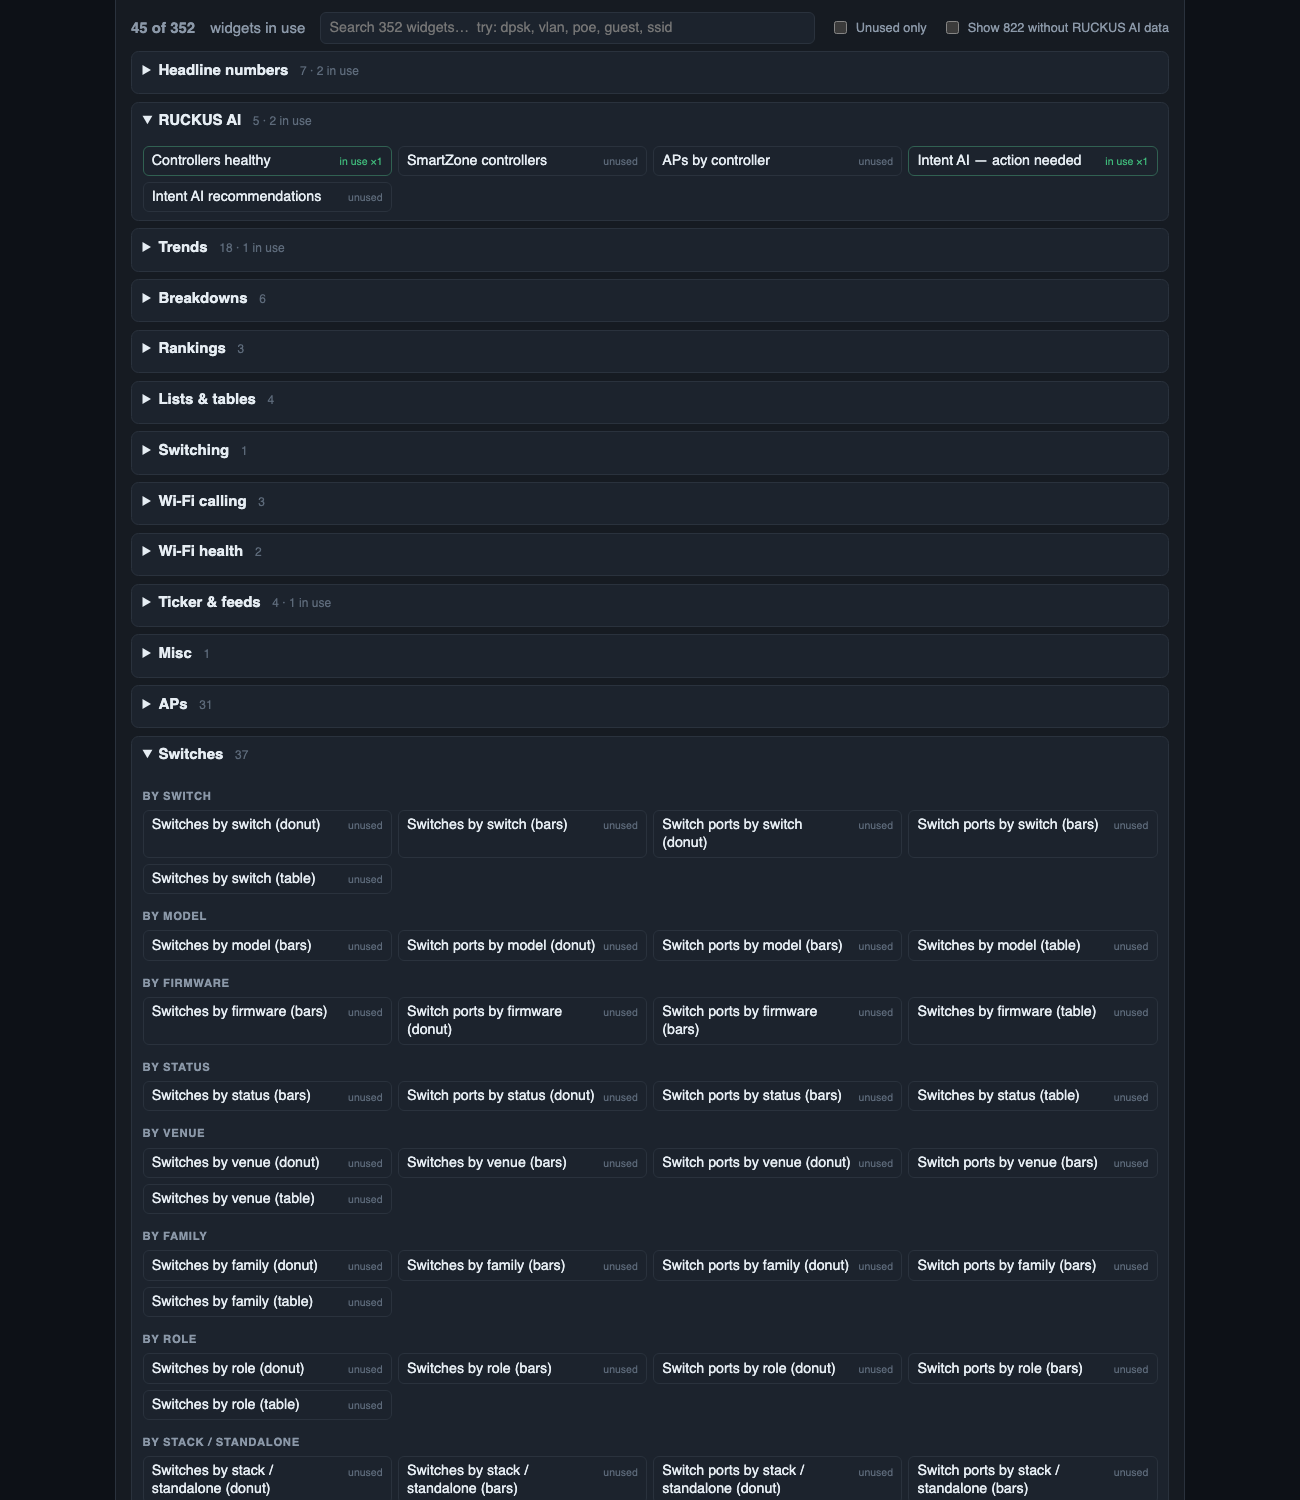
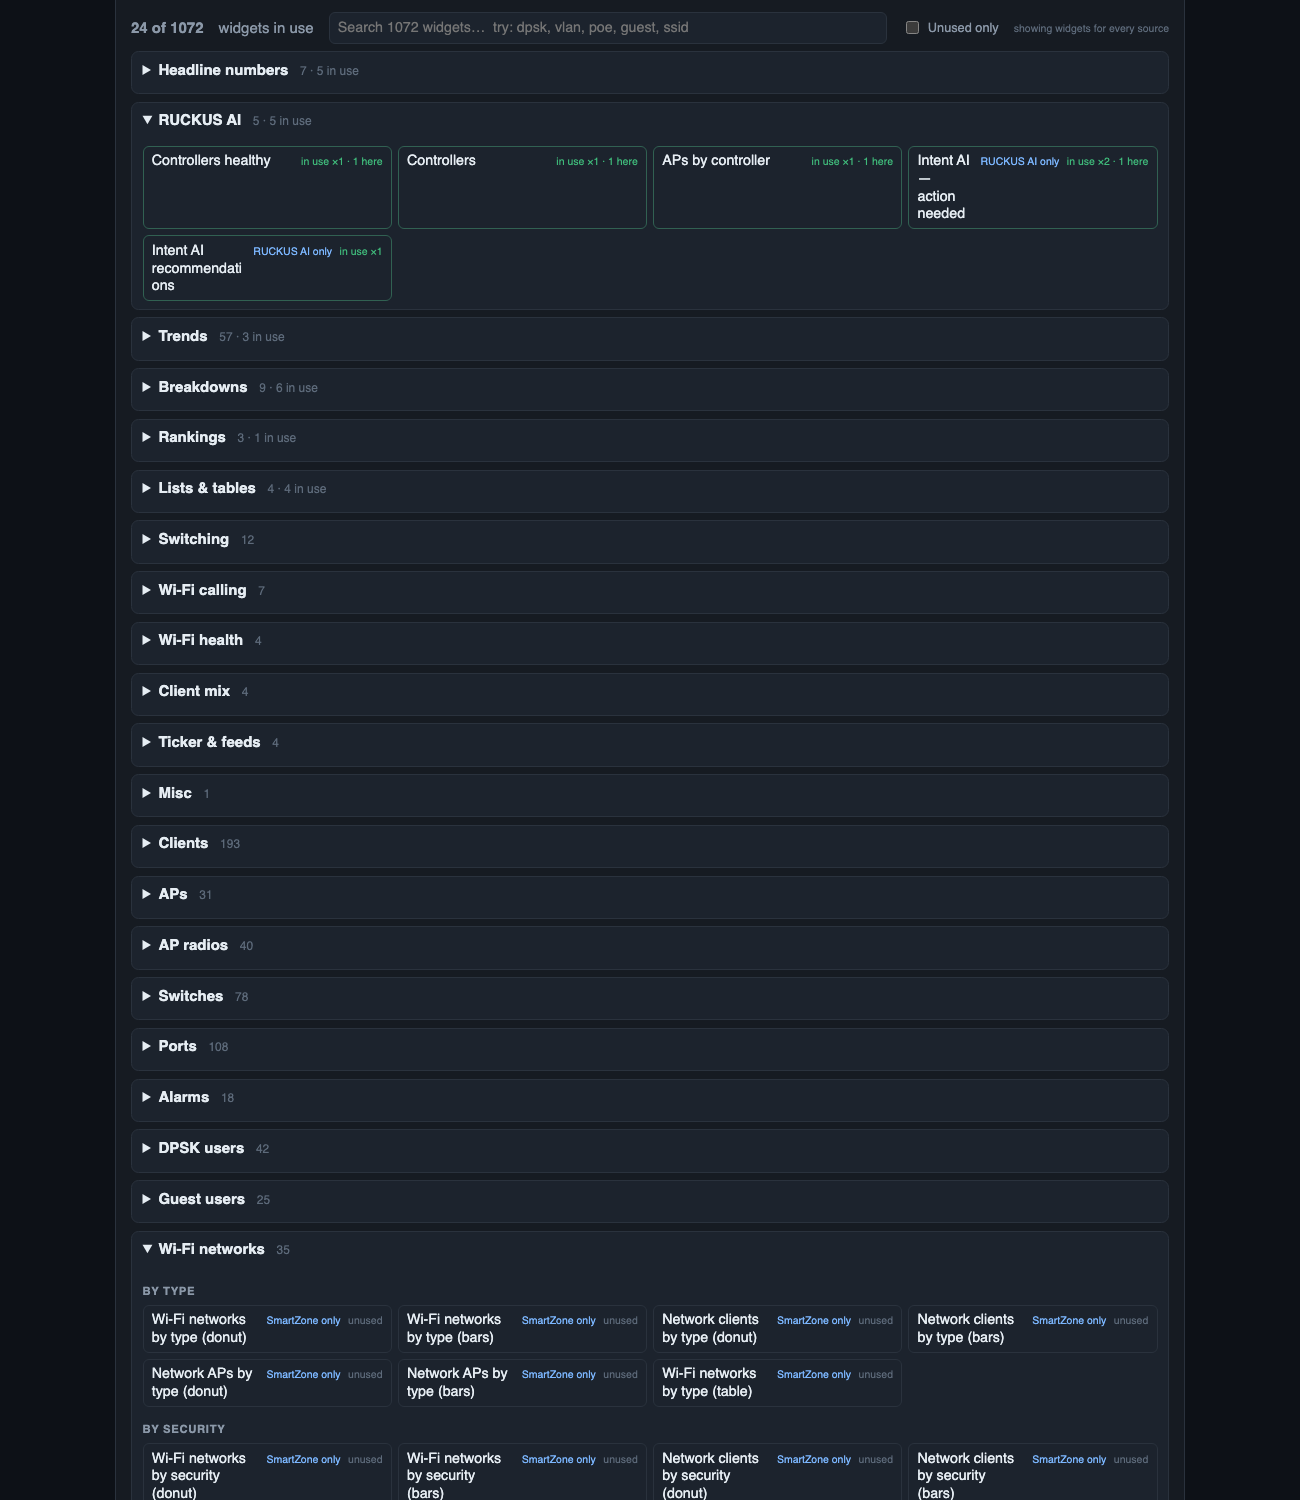
README with features and screenshots; SmartZone and connections screenshots; release page text
- README: features, both data sources, screenshot gallery (RUCKUS AI, SmartZone, editor), downloads, connecting, roadmap.
- New screenshots from the demo: SmartZone overview / zones / networks / clients, the data sources and
  connections panel, the widget picker with source tags.
- docs/RELEASE_0.1.0.md: the same text for the GitHub release page, with absolute image links and the file list.
- npm run demo:sz.

diff --git a/README.md b/README.md
@@ -2,30 +2,100 @@
 
 # SZ-AI NOC Wall
 
-A **server-side NOC wall display for RUCKUS AI** (ruckus.cloud/ai) and, next, **RUCKUS SmartZone** controllers. One small
-server collects the data; any browser on your network — wall TVs, kiosks, laptops — shows live, customizable dashboards.
+A **server-side NOC wall display for RUCKUS AI and RUCKUS SmartZone.** One small server collects the data; any browser on your network (wall TVs, kiosks,
+laptops) shows live, customizable dashboards. Connect **RUCKUS AI**, **SmartZone controllers directly**, or **both at once**: each screen shows one source,
+and the editor only offers the widgets and screens that work with it.
 
-> **Status: early development (0.1).** Live data from **RUCKUS AI** works: SmartZone controllers and their onboarding state, zones, every AP and
-> switch, open incidents as alarms and Intent AI recommendations. Connect with a RUCKUS AI **Application Token**
-> (Administration → Developers). RUCKUS AI has no per-client, switch-port, DPSK or guest data, so widgets built on those are hidden; run
-> `npm run widgets:check` to see what works on your tenant. Built from [R1 NOC Wall](https://github.com/TerryHenry/r1-noc)'s dashboard engine,
-> editor, alerts, HTTPS, backup, upgrade and packaging. Docs: [Getting started](docs/GETTING_STARTED.md) · [User guide](docs/USER_GUIDE.md).
-> The screenshots in the docs were taken on the RUCKUS One version and will be retaken.
+<p align="center"><img src="docs/img/overview.png" alt="RUCKUS AI overview screen (demo data)" width="49%"> <img src="docs/img/sz-overview.png" alt="SmartZone overview screen (demo data)" width="49%"></p>
+<p align="center"><sub>The same wall on RUCKUS AI (left) and on SmartZone (right). Screenshots use synthetic demo data.</sub></p>
 
-<p align="center"><img src="docs/img/overview.png" alt="SZ-AI NOC Wall overview screen (demo data)" width="800"></p>
+> **Status: 0.1, early.** RUCKUS AI is confirmed against a live tenant. SmartZone is confirmed against a live SmartZone 7.2 (API v14_0) for zones, APs, WLANs and
+> the controller; its client and alarm lists are read but unconfirmed (the test controller had none) and there is no switch data. The Windows builds are untested on a real Windows machine.
+
+## Features
+
+**Two data sources, side by side**
+- **RUCKUS AI**: controllers and their onboarding state, zones and switch groups, every AP and switch (status, model, firmware, IP, wired clients), open incidents as alarms,
+  Intent AI recommendations, and connection experience (network-wide and per zone). One Application Token.
+- **SmartZone, direct** (for sites without RUCKUS AI): zones, APs with live status / model / firmware / IP / client counts / channels, WLANs, and controller info, from one or many
+  controllers. Signs in with a read-only administrator (service ticket); passwords are write-only.
+- **On / off per source and per controller.** Both can be on together; **each screen shows exactly one source**, never a mix. Stock screens, history and alerts follow the source.
+- **Only what works is offered.** Every widget and screen knows which sources it can show; the picker hides the rest (with *RUCKUS AI only* / *SmartZone only* tags and a
+  "For this screen / RUCKUS AI / SmartZone / Everything" switch), and presets are all-or-nothing: shown for a source only when every widget in them works there.
+  `npm run widgets:check` measures this against your own tenant or controller.
+
+**Dashboards you design**
+- A browser-based **editor** with a searchable catalog of widgets (KPIs, donuts, bars, tables, lists, trends, gauges, history comparisons), a drag-and-drop **layout designer** with
+  chart previews, auto-fit tiling, multi-display video walls with per-display playlists, views and time-of-day schedules, per-tile thresholds, and zone drill-down.
+- A scrolling **ticker** (custom messages, RSS news, weather, stock quotes) and a message board.
+- Light and dark themes, a scale option for far-away TVs, kiosk-friendly URLs.
+
+**Alerts and reports**
+- **Rules** on alarms, offline APs, clients, connection success, incidents and more, with severity, hold times, reminders and acknowledgement; critical rules **take over every screen** until acknowledged.
+- Notifications to **Slack, Microsoft Teams, email (SMTP) and webhooks**.
+- Scheduled, printable **reports** (saved as HTML, emailed, print to PDF), and 30 days of metric history for trends and "vs yesterday / last week".
+
+**Run it anywhere, safely**
+- **Virtual appliance (OVA)**, **macOS app**, **Windows installer / zip**, or **from source** (Node 22.5+, nothing to install).
+- HTTPS with a generated or your own certificate, an editor sign-in, view keys, encrypted full backups, and **in-app software updates** from a release file.
+- No credentials in the browser: the server is the only thing that talks to RUCKUS AI or your controllers, and it only ever reads.
+
+## Screens
+
+### RUCKUS AI
+
+<p><img src="docs/img/zones.png" alt="Zones and AP breakdowns" width="49%"> <img src="docs/img/switches.png" alt="Switches" width="49%"></p>
+<p><img src="docs/img/intent-ai.png" alt="Intent AI recommendations" width="49%"> <img src="docs/img/connection-health.png" alt="Connection health" width="49%"></p>
+
+Controllers, zones, every AP and switch, incidents, Intent AI, and connection success by stage (network-wide and per zone).
+
+### SmartZone
+
+<p><img src="docs/img/sz-zones.png" alt="SmartZone zones" width="49%"> <img src="docs/img/sz-networks.png" alt="SmartZone Wi-Fi networks" width="49%"></p>
+<p><img src="docs/img/sz-clients.png" alt="SmartZone clients" width="49%"> <img src="docs/img/takeover.png" alt="Alert takeover" width="49%"></p>
+
+Zones with AP and client counts, WLANs by SSID / security / VLAN, clients, and the alert takeover that covers every screen.
+
+### The editor
+
+<p><img src="docs/img/connections.png" alt="Data sources and connections" width="49%"> <img src="docs/img/picker.png" alt="Widget picker with source tags" width="49%"></p>
+<p><img src="docs/img/designer-charts.png" alt="Layout designer" width="49%"> <img src="docs/img/history.png" alt="History comparisons" width="49%"></p>
+
+Connect each source with its own on / off, pick widgets (tagged by source), arrange them in the layout designer, and compare now against yesterday or last week.
+
+## Get it
+
+Download from the [Releases page](../../releases):
+
+| | |
+|---|---|
+| `SZ-AI-NOC-Wall-x.y.z.ova` | virtual appliance (VMware, VirtualBox, Proxmox): import, power on, sign in at `https://<ip>/admin` |
+| `SZ-AI-NOC-Wall-x.y.z-mac.dmg` | macOS menu-bar app (Apple silicon and Intel; right-click, Open the first time) |
+| `SZ-AI-NOC-Wall-x.y.z-win-x64-setup.exe` / `.zip` | Windows installer / portable (unsigned, untested on real Windows) |
+| `sz-ai-noc-x.y.z.tgz` | the release file used by the in-app *Software update* |
+
+From source:
+
+```bash
+git clone https://github.com/TerryHenry/sz-ai-noc.git && cd sz-ai-noc
+npm run demo:ai    # RUCKUS AI demo, no credentials  → http://<server-ip>:8080
+npm run demo:sz    # SmartZone demo
+npm start          # real data: open http://<server-ip>:8080/admin and connect a source
+```
+
+Then follow the [Getting started guide](docs/GETTING_STARTED.md): about 15 minutes from download to a live wall. The [User guide](docs/USER_GUIDE.md) covers every setting.
+
+## Connecting
+
+- **RUCKUS AI:** create an **Application Token** (Administration → Developers → Application Tokens). RUCKUS One API keys do not work.
+- **SmartZone:** add each controller's address with a **read-only administrator**'s user name and password. There is no API key.
 
 ## Roadmap
 
-1. **RUCKUS AI** — *in progress.* Done: controllers, zones, APs, switches, incidents, Intent AI. Next: more of the analytics (health KPIs per system), if RUCKUS AI returns them for SmartZone.
-2. **SmartZone** — live controller data (zones, APs, clients, WLANs, alarms, switches) from the SmartZone public API, one or many controllers.
-3. Branding, docs, appliance / Mac / Windows releases.
+1. **RUCKUS AI**: more of the analytics (health KPIs per system) where RUCKUS AI returns them for SmartZone.
+2. **SmartZone**: confirm client and alarm fields on a controller that has them; switches if the controller exposes them; events.
+3. Notarized macOS and signed Windows builds.
 
-## Running it (development)
+Built from [R1 NOC Wall](https://github.com/TerryHenry/r1-noc)'s dashboard engine, editor, alerts, HTTPS, backup, upgrade and packaging.
 
-```bash
-npm run demo     # synthetic data, no credentials → http://<server-ip>:8080
-npm run demo:ai   # demo limited to what RUCKUS AI supplies (the screenshots)
-npm start        # real data
-```
-
-*Released under the [MIT License](LICENSE). Unofficial tool — not an official RUCKUS / CommScope product.*
+*Released under the [MIT License](LICENSE). Unofficial tool, not an official RUCKUS / CommScope product.*

diff --git a/docs/RELEASE_0.1.0.md b/docs/RELEASE_0.1.0.md
@@ -1,0 +1,89 @@
+# SZ-AI NOC Wall 0.1.0 — first release (pre-release)
+
+A **server-side NOC wall display for RUCKUS AI and RUCKUS SmartZone.** One small server collects the data; any browser on your network (wall TVs, kiosks,
+laptops) shows live, customizable dashboards. Connect **RUCKUS AI**, **SmartZone controllers directly**, or **both at once**: each screen shows one source,
+and the editor only offers the widgets and screens that work with it.
+
+<p align="center"><img src="https://github.com/TerryHenry/sz-ai-noc/raw/main/docs/img/overview.png" alt="RUCKUS AI overview screen (demo data)" width="49%"> <img src="https://github.com/TerryHenry/sz-ai-noc/raw/main/docs/img/sz-overview.png" alt="SmartZone overview screen (demo data)" width="49%"></p>
+<p align="center"><sub>The same wall on RUCKUS AI (left) and on SmartZone (right). Screenshots use synthetic demo data.</sub></p>
+
+> **Status: 0.1, early.** RUCKUS AI is confirmed against a live tenant. SmartZone is confirmed against a live SmartZone 7.2 (API v14_0) for zones, APs, WLANs and
+> the controller; its client and alarm lists are read but unconfirmed (the test controller had none) and there is no switch data. The Windows builds are untested on a real Windows machine.
+
+## Features
+
+**Two data sources, side by side**
+- **RUCKUS AI**: controllers and their onboarding state, zones and switch groups, every AP and switch (status, model, firmware, IP, wired clients), open incidents as alarms,
+  Intent AI recommendations, and connection experience (network-wide and per zone). One Application Token.
+- **SmartZone, direct** (for sites without RUCKUS AI): zones, APs with live status / model / firmware / IP / client counts / channels, WLANs, and controller info, from one or many
+  controllers. Signs in with a read-only administrator (service ticket); passwords are write-only.
+- **On / off per source and per controller.** Both can be on together; **each screen shows exactly one source**, never a mix. Stock screens, history and alerts follow the source.
+- **Only what works is offered.** Every widget and screen knows which sources it can show; the picker hides the rest (with *RUCKUS AI only* / *SmartZone only* tags and a
+  "For this screen / RUCKUS AI / SmartZone / Everything" switch), and presets are all-or-nothing: shown for a source only when every widget in them works there.
+  `npm run widgets:check` measures this against your own tenant or controller.
+
+**Dashboards you design**
+- A browser-based **editor** with a searchable catalog of widgets (KPIs, donuts, bars, tables, lists, trends, gauges, history comparisons), a drag-and-drop **layout designer** with
+  chart previews, auto-fit tiling, multi-display video walls with per-display playlists, views and time-of-day schedules, per-tile thresholds, and zone drill-down.
+- A scrolling **ticker** (custom messages, RSS news, weather, stock quotes) and a message board.
+- Light and dark themes, a scale option for far-away TVs, kiosk-friendly URLs.
+
+**Alerts and reports**
+- **Rules** on alarms, offline APs, clients, connection success, incidents and more, with severity, hold times, reminders and acknowledgement; critical rules **take over every screen** until acknowledged.
+- Notifications to **Slack, Microsoft Teams, email (SMTP) and webhooks**.
+- Scheduled, printable **reports** (saved as HTML, emailed, print to PDF), and 30 days of metric history for trends and "vs yesterday / last week".
+
+**Run it anywhere, safely**
+- **Virtual appliance (OVA)**, **macOS app**, **Windows installer / zip**, or **from source** (Node 22.5+, nothing to install).
+- HTTPS with a generated or your own certificate, an editor sign-in, view keys, encrypted full backups, and **in-app software updates** from a release file.
+- No credentials in the browser: the server is the only thing that talks to RUCKUS AI or your controllers, and it only ever reads.
+
+## Screens
+
+### RUCKUS AI
+
+<p><img src="https://github.com/TerryHenry/sz-ai-noc/raw/main/docs/img/zones.png" alt="Zones and AP breakdowns" width="49%"> <img src="https://github.com/TerryHenry/sz-ai-noc/raw/main/docs/img/switches.png" alt="Switches" width="49%"></p>
+<p><img src="https://github.com/TerryHenry/sz-ai-noc/raw/main/docs/img/intent-ai.png" alt="Intent AI recommendations" width="49%"> <img src="https://github.com/TerryHenry/sz-ai-noc/raw/main/docs/img/connection-health.png" alt="Connection health" width="49%"></p>
+
+Controllers, zones, every AP and switch, incidents, Intent AI, and connection success by stage (network-wide and per zone).
+
+### SmartZone
+
+<p><img src="https://github.com/TerryHenry/sz-ai-noc/raw/main/docs/img/sz-zones.png" alt="SmartZone zones" width="49%"> <img src="https://github.com/TerryHenry/sz-ai-noc/raw/main/docs/img/sz-networks.png" alt="SmartZone Wi-Fi networks" width="49%"></p>
+<p><img src="https://github.com/TerryHenry/sz-ai-noc/raw/main/docs/img/sz-clients.png" alt="SmartZone clients" width="49%"> <img src="https://github.com/TerryHenry/sz-ai-noc/raw/main/docs/img/takeover.png" alt="Alert takeover" width="49%"></p>
+
+Zones with AP and client counts, WLANs by SSID / security / VLAN, clients, and the alert takeover that covers every screen.
+
+### The editor
+
+<p><img src="https://github.com/TerryHenry/sz-ai-noc/raw/main/docs/img/connections.png" alt="Data sources and connections" width="49%"> <img src="https://github.com/TerryHenry/sz-ai-noc/raw/main/docs/img/picker.png" alt="Widget picker with source tags" width="49%"></p>
+<p><img src="https://github.com/TerryHenry/sz-ai-noc/raw/main/docs/img/designer-charts.png" alt="Layout designer" width="49%"> <img src="https://github.com/TerryHenry/sz-ai-noc/raw/main/docs/img/history.png" alt="History comparisons" width="49%"></p>
+
+Connect each source with its own on / off, pick widgets (tagged by source), arrange them in the layout designer, and compare now against yesterday or last week.
+
+## Files in this release
+
+| File | What it is |
+|---|---|
+| `SZ-AI-NOC-Wall-0.1.0.ova` (345 MB) | virtual appliance, Debian 12, x86-64 (BIOS and UEFI). Import, power on, sign in at `https://<ip>/admin` as `noc` (first-time password `noc`, you must change it) |
+| `SZ-AI-NOC-Wall-0.1.0-mac.dmg` (93 MB) | macOS menu-bar app, Apple silicon and Intel. Ad-hoc signed, not notarized: right-click → Open the first time |
+| `SZ-AI-NOC-Wall-0.1.0-win-x64-setup.exe` (26 MB) and `…-win-x64.zip` (38 MB) | Windows installer / portable. Unsigned; **not tested on a real Windows machine** |
+| `sz-ai-noc-0.1.0.tgz` (2.7 MB) | the release file used by the in-app *Software update* |
+| `SHA256SUMS` | checksums for all of the above |
+
+Verify with `shasum -a 256 -c SHA256SUMS`. New here? Start with the [Getting started guide](https://github.com/TerryHenry/sz-ai-noc/blob/main/docs/GETTING_STARTED.md): about 15 minutes from download to a live wall.
+
+## Connecting
+
+- **RUCKUS AI:** create an **Application Token** (Administration → Developers → Application Tokens). RUCKUS One API keys do not work.
+- **SmartZone:** add each controller's address with a **read-only administrator**'s user name and password. There is no API key.
+
+## Roadmap
+
+1. **RUCKUS AI**: more of the analytics (health KPIs per system) where RUCKUS AI returns them for SmartZone.
+2. **SmartZone**: confirm client and alarm fields on a controller that has them; switches if the controller exposes them; events.
+3. Notarized macOS and signed Windows builds.
+
+Built from [R1 NOC Wall](https://github.com/TerryHenry/r1-noc)'s dashboard engine, editor, alerts, HTTPS, backup, upgrade and packaging.
+
+*Released under the [MIT License](https://github.com/TerryHenry/sz-ai-noc/blob/main/LICENSE). Unofficial tool, not an official RUCKUS / CommScope product.*
